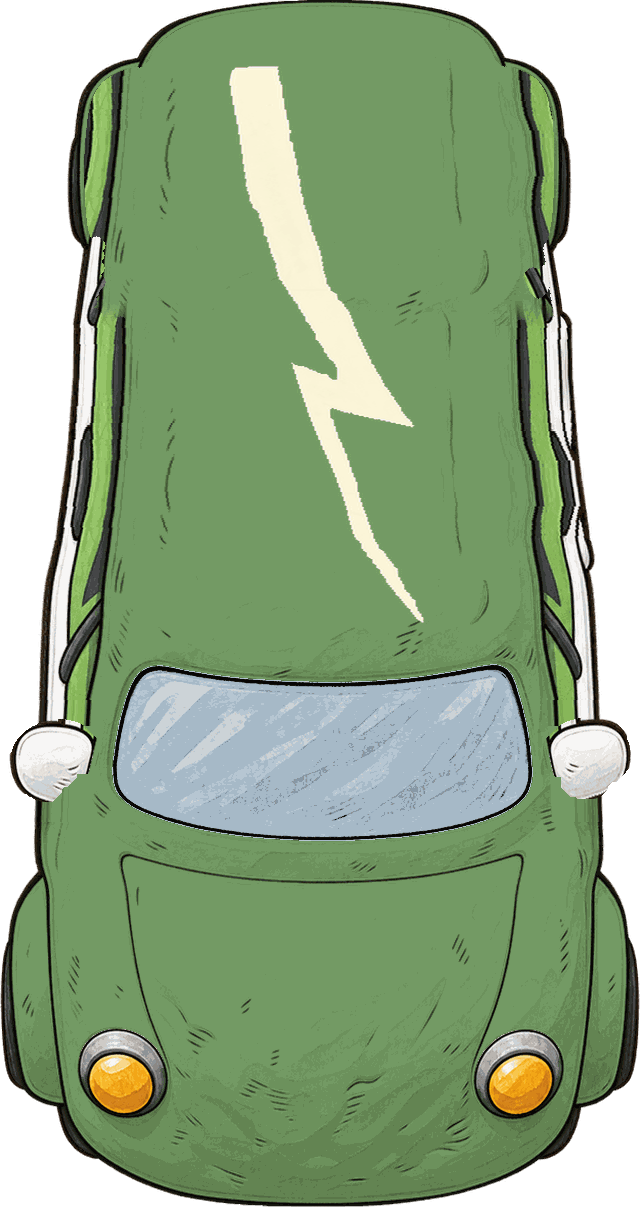
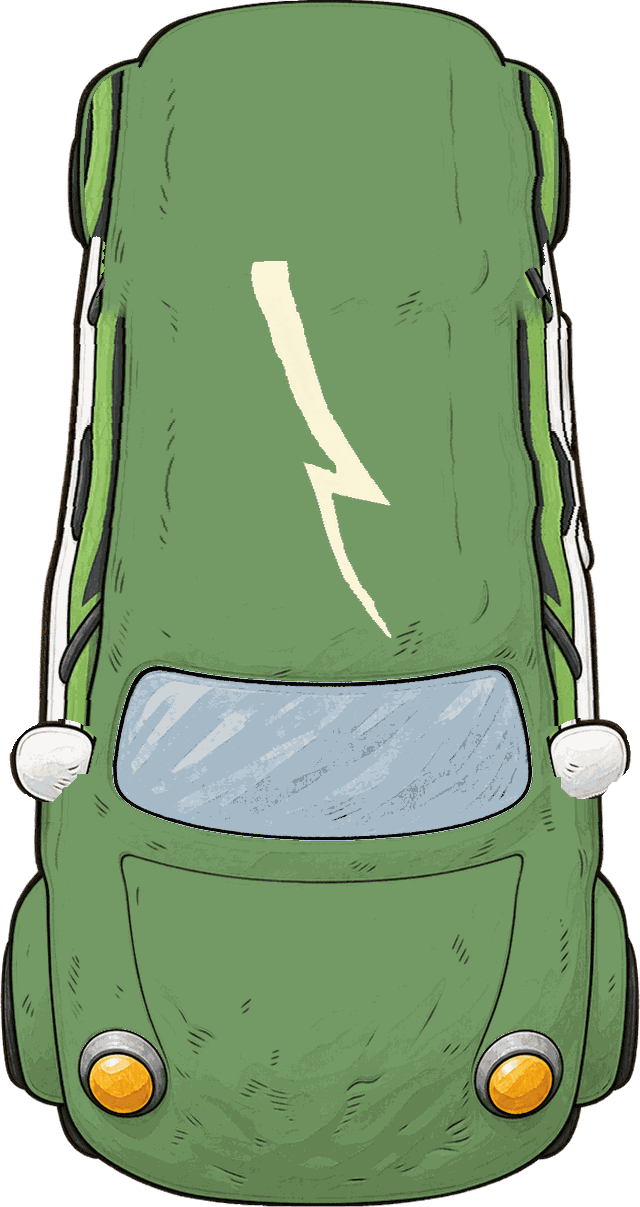
fix(art): spark's roof flash is one size on his front and rear, and decorate-roof.py keeps it so
The roof motifs went in with Spark's rear flash 0.68 the size of his front's,
because decorate-roof.py sizes a motif as a share of the roof it finds and the
two views show different lengths of one roof: his front has the rear window
painted out so its roof runs on to the tail (652 rows), his rear's stops at the
glass (442). Marcus's principle for the fleet is that autistic children spot a
mark that does not match between viewpoints, and a flash that is 14 px thick at
46 px wide on the front and 10 px on the rear is that mark.

The front has come down to the rear, the camera reference, whose bolt cannot be
enlarged without running it into the glass its roof stops at. In the tool rather
than in the file, so a re-run gives this and not the fault:

  - a design that is one motif (SIZED_ONCE: spark A and B, bea A) is now sized on
    both roofs, each view takes the smaller scale in each direction and the
    smaller motif's gap to the nose end of its roof. The answer is the same from
    either file in either order and nothing is ever enlarged, so the rear did
    not move and the front is capped at it. Designs that repeat (henry A and B,
    bea B) keep their views in step by count and direction and are untouched.
  - the other view is the sibling beside the source, or --pair; --alone is the
    old behaviour, and a one-motif design with no other view stops and says so
    rather than quietly reintroducing the fault.
[…]

Changed region(s): [[0.3438, 0.0307, 0.6562, 0.5211]]

diff --git a/apps/game/src/scenes/PtvDriveScene.ts b/apps/game/src/scenes/PtvDriveScene.ts
@@ -98,8 +98,9 @@ const TRAFFIC_SPRITE_KEYS: Record<TrafficKind, string[]> = {
  *  width lever, which drew a lorry half again too fat because the art of the
  *  day was too short and the scalar was being asked to fix it. The art fixed
  *  it instead. She is 1.31 — a 2.4m lorry against Henry's 1.8m van — and the
- *  sprite's own 2.81:1 aspect makes her about 1.8 times his length (2.03:1
- *  since he was shortened) without being asked.
+ *  sprite's own aspect, 2.505:1 front and 2.516:1 rear since her front was
+ *  redrawn (it was 2.81:1), makes her about 1.6 times his length (his is
+ *  2.03:1 since he was shortened) without being asked.
  *
  *  Measured off the installed files, as each sprite's opaque width over
  *  Henry's 561px: Trikey 0.43 (a trike is narrower than her file, which

diff --git a/tools/decorate-roof.py b/tools/decorate-roof.py
@@ -1,8 +1,8 @@
 #!/usr/bin/env python3
 """decorate-roof.py: put the master portrait's own side markings on a top-down vehicle's roof.
 
-    python3 tools/decorate-roof.py apps/game/public/assets/driving/topdown/vehicle-topdown-spark-rear.png \\
-        --design A --out /tmp/spark-rear-A.png --check
+    python3 tools/decorate-roof.py $SRC/vehicle-topdown-spark-rear.png \\
+        --design A --out /tmp/spark-rear-A.png --check        # $SRC: the sprites BEFORE any motif, see RECIPE
     python3 tools/decorate-roof.py --cutouts /tmp/cutouts      # write the extracted motifs as PNGs, nothing else
 
 WHY. The six van top-downs were recoloured to match their portraits and then read as one flat slab of
@@ -57,11 +57,28 @@ survives that has to be written against the roof it finds, so:
      are applied to the motif at half strength so it sits in the same light.
   5. Pixels that are not clean roof paint are never touched; the render counts any motif pixel that
      fell there ("clipped") and every design measures 0.
+  6. A design that is ONE motif (SIZED_ONCE: spark A and B, bea A) is matched with the other view of
+     the same vehicle, because step 2 makes its size a share of the roof in front of it and the two
+     views show different lengths of one roof. Spark's front has its rear window painted out, so its
+     roof runs on to the tail (652 rows); his rear's stops at the glass (442). The same recipe drew
+     the rear flash 0.68 the size of the front's, 10 px thick against 14 at 46 px wide, and a child
+     sees a bolt change size between views. So the motif is sized on BOTH roofs, takes the smaller of
+     the two in each direction and the smaller motif's gap to the nose end of its roof (the
+     windscreen), and each view is drawn at that: the flash is a 380 x 136 px box on both, its tip
+     31 px from the nose end of the roof on both.
+     The smaller wins because a motif that fits the tighter roof fits the other, and the reverse is how
+     a flash gets pushed into the glass. The answer is the same from either file in either order,
+     nothing is ever enlarged, and Spark's rear, the camera reference (fleet-canon.md section 3),
+     does not move at all; his front comes down to it. A design that repeats (henry A and B, bea B)
+     keeps its views in step by its repeat count and its direction and is not matched: matching would
+     only take repeats off the longer roof. The other view is the sibling beside this file (front
+     <-> -rear) or --pair; --alone sizes by this roof alone and the views will disagree.
 
 DESIGNS (one letter each, parameters named at the top of each block below; * = recommended).
 
   spark A* one flash down the roof, tip at the nose. 86% of L long, up to 62% of W thick; on a short
-           roof it gives up at most 35% of its length before it gets thinner instead.
+           roof it gives up at most 35% of its length before it gets thinner instead. Sized once for
+           both views (step 6): 380 x 136 px, the rear's.
         B  one flash at its painted shape, turned 40 degrees off the roof's line, as big as fits.
   bea   A  the whole scroll once down the centre line, 40% of W across, at most 90% of L long.
         B* the same scroll twice, the second its mirror image across the centre line, 29% of W each,
@@ -69,10 +86,17 @@ DESIGNS (one letter each, parameters named at the top of each block below; * = r
            toward the centre, a clear strip (3% of W) between.
   henry A* a garland down the centre line: pink flower, leaves, sage flower, leaves, pink ..., a
            flower every 0.62 W (46% of W across for pink, 35% for sage), pink nearest the nose.
-        B  the oak inlay, 40% of W across, as many as fit (one on both current roofs).
+        B  the oak inlay, 40% of W across, as many as fit (one on each current roof, 692 and 764 rows).
+
+THE ROOFS TODAY, as this tool measures them on the motif-free sprites (rows long, canvas px wide, length
+over width), front / rear:
+
+  henry  692 x 388 (1.78) / 764 x 418 (1.83)     bea    739 x 429 (1.72) / 900 x 457 (1.97)
+  spark  652 x 418 (1.56) / 442 x 488 (0.91)
 
 WHEN THE ROOF GETS SHORTER. Measured on the committed sprites before and after the shortening
-(roof length over width 2.22 -> 1.78 on Henry front, 2.87 -> 1.11 on Spark front), the same recipe, no change:
+(shorten-topdown.py, f4cc906; roof length over width 2.22 -> 1.78 on Henry front, 2.87 -> 1.11 on Spark
+front; Spark's front has since been redrawn, and is the 1.56 above), the same recipe, no change:
   henry A  flowers 4 -> 3 (their spacing gives a little, so front and rear always agree); B  2 inlays -> 1
   bea   A, B  one scroll either way; it shrinks to stay at most 90% of L, giving up at most 15% of its
               shape first; share of roof 7.7% -> 6.3% (A), 13.6% -> 12.5% (B)
@@ -102,17 +126,29 @@ vehicles.gate IoU against the input; alpha differences; and, on Henry's rear, th
 a poor detector of a heavy motif (Henry B moves them by 0.2 although oak covers 19% of the roof),
 so the share of the roof is printed beside them. Look at it as well.
 
-RECIPE, one line per file (A or B as chosen; the files are not installed by this script):
+RECIPE, one line per file (A or B as chosen; the files are not installed by this script). The sources are
+the sprites BEFORE any motif, in one folder $SRC: the installed files carry a motif now, and to this tool
+a motif is not clean paint, so it measures a different roof (Spark's front comes out 196 rows, on the
+bonnet) and puts a small second motif there. The tool refuses a roof under MIN_ROOF of the painted
+height for that reason. They are the files at 011f02a^, until a redraw makes newer motif-free ones:
+
+  git show 011f02a^:apps/game/public/assets/driving/topdown/vehicle-topdown-$f.png > $SRC/vehicle-topdown-$f.png
 
   for f in henry henry-rear bea bea-rear spark spark-rear; do
-    python3 tools/decorate-roof.py apps/game/public/assets/driving/topdown/vehicle-topdown-$f.png \\
-        --design $D --out /tmp/$f.png --check
+    python3 tools/decorate-roof.py $SRC/vehicle-topdown-$f.png --design $D --out /tmp/$f.png --check
   done                                  # $D: henry A, bea B, spark A (recommended)
+
+A one-motif design finds its other view beside the file it is given, so $SRC must hold both. The output
+is then copied over the installed files (not through install-vehicles.py), and re-running it gives the
+same bytes.
 
 KNOWN LIMITS. The flash's torn edge and Bea's stepped strokes show a little at 1:1 and nowhere at the
 46 to 92 px the game draws these at. Bea's scrollwork is fine work and the faintest of the three at
-46 px. Spark's roof, after shortening, is as wide as it is long, so a flash of its painted shape is
-smaller than it was on the long roof; A lets it fatten along its width by up to 1.5x before shrinking.
+46 px. Spark's rear roof is wider than it is long (442 rows by 488), so a flash of its painted shape is
+smaller there than on his front's; A lets it stretch along the roof by up to 1.3x or squash by up to 35%
+before it shrinks, and both of his roofs are at the squash. Matching the views (step 6) gives the front
+the rear's flash, so on his long front roof it is smaller than the roof would carry and leaves bare paint
+behind it; that is the price of one bolt that does not change size.
 """
 import argparse
 import importlib.util
@@ -686,6 +722,73 @@ def motifs_for(vehicle):
     return {'items': extract_henry_flowers(), 'inlay': extract_henry_inlay()}
 
 
+# ------------------------------------------------------------------ one motif, two views
+#
+# A design that repeats keeps a vehicle's two views in step by its repeat count and its direction, and
+# only the repeats differ. A design that is ONE motif has nothing but its size to keep in step, and its
+# size is a share of the roof in front of it, which is not the same stretch of roof in both views:
+# Spark's front has the rear window painted out (fleet-canon.md section 3) and its roof runs on to
+# the tail, 652 rows, where his rear's stops at the glass, 442. So such a design is sized on both roofs
+# and each view takes the smaller size and the smaller motif's distance from the nose end of its roof (the
+# windscreen), so the one motif is the same size and the same distance from the glass in both views. A motif
+# that fits the tighter roof fits the other, so the longer roof is the one that gives way and nothing is
+# enlarged.
+
+SIZED_ONCE = {('spark', 'A'), ('spark', 'B'), ('bea', 'A')}
+MIN_ROOF = 0.28         # a roof shorter than this share of the sprite's painted height is not a roof (a motif is on it already)
+
+
+def _along(p):
+    """How far a placed motif reaches along the roof, in canvas px: its box, turned by its `turn`."""
+    mh, mw = p['motif'].shape[:2]
+    t = np.radians(p['turn'])
+    return mw * p['sa'] * abs(np.cos(t)) + mh * p['sc'] * abs(np.sin(t))
+
+
+def _nose_gap(p, roof):
+    """Canvas px between the nose-ward end of a placed motif and the nose-ward end of the roof, which is where
+    the windscreen starts."""
+    return roof.length - (p['v0'] + _along(p) / 2.0)
+
+
+def match_views(mine, my_roof, theirs, their_roof):
+    """`mine` (this view's placements of a one-motif design, on `my_roof`) matched to `theirs` (the other view's,
+    on `their_roof`): in each direction the smaller scale of the two, and the nose gap of whichever view has the
+    smaller motif. The same answer from either view, so the order of the runs does not matter, and the view that
+    already has the smaller motif comes back as it was, to the bit."""
+    out = []
+    for p, q in zip(mine, theirs):
+        sa, sc = min(p['sa'], q['sa']), min(p['sc'], q['sc'])
+        mine_binds = p['sa'] * p['sc'] <= q['sa'] * q['sc']
+        if mine_binds and (sa, sc) == (p['sa'], p['sc']):
+            out.append(p)
+            continue
+        gap = _nose_gap(p, my_roof) if mine_binds else _nose_gap(q, their_roof)
+        r = dict(p, sa=sa, sc=sc)
+        r['v0'] = max(my_roof.length - gap - _along(r) / 2.0, _along(r) / 2.0)
+        out.append(r)
+    return out
+
+
+def sibling(path):
+    """The other view's file beside this one: vehicle-topdown-spark.png <-> vehicle-topdown-spark-rear.png."""
+    folder, name = os.path.split(path)
+    stem, ext = os.path.splitext(name)
+    return os.path.join(folder, (stem[:-5] if stem.endswith('-rear') else stem + '-rear') + ext)
+
+
+def painted_height(rgba):
+    rows = np.nonzero((rgba[..., 3] > 16).any(1))[0]
+    return int(rows.max() - rows.min() + 1)
+
+
+def check_is_a_roof(roof, rgba, path):
+    if roof.length < MIN_ROOF * painted_height(rgba):
+        sys.exit(f'{os.path.basename(path)}: the roof found is {roof.length} rows of a {painted_height(rgba)}-row sprite, '
+                 f'which is not a roof. Is a motif already on it? The installed files carry one: use the sprites '
+                 f'from before it (RECIPE in this file\'s docstring).')
+
+
 # ------------------------------------------------------------------ the gates
 
 TARGETS = {'henry': (142, 52, 54), 'bea': (74, 112, 164), 'spark': (116, 156, 102)}   # the portraits' body colours
@@ -814,6 +917,14 @@ def report(src_path, out_path, src_rgba, new_rgba_raw, roof, stats, vehicle, vie
               f'motif colour error {g["motif_err"]:.2f} of 255; {g["shifted"]} px outside the motif shifted by a merge, largest shift {g["shifted_max"]} of 255')
     print(f'motif covers {stats["covered"]} px = {stats["share_of_roof"]:.1%} of the clean roof; '
           f'{stats["clipped"]} motif px fell on something that was not clean paint and were not drawn')
+    if stats['pair']:
+        ppath, proof = stats['pair']
+        (al, ac, gap), (al0, ac0, gap0) = stats['placed'][0], stats['alone'][0]
+        print(f'sized once with {os.path.basename(ppath)} (its roof {proof.length} rows, this one {roof.length}): '
+              f'motif {al:.0f} x {ac:.0f} px, tip {gap:.0f} px from the nose end of the roof (the windscreen); '
+              f'this roof alone would give {al0:.0f} x {ac0:.0f}, {gap0:.0f} px from it')
+    elif (vehicle, design) in SIZED_ONCE:
+        print('sized by this roof alone (--alone): the two views will disagree')
     print(f'livery bands (0-6, 6-20, 35-55, 75-92% of painted height), dominant colour, distance from {tuple(TARGETS[vehicle])}:')
     for tag, img in (('  before', src_rgba), ('  after ', back)):
         d = [float(np.linalg.norm(b['dominant'] - tgt)) for b in rt.band_colours(img)]
@@ -860,14 +971,28 @@ def write_cutouts(folder):
         save(f'henry-{it["kind"]}-{i}.png', it['motif'])
 
 
-def decorate(src, vehicle, view, design, check=False, out=None):
+def decorate(src, vehicle, view, design, check=False, out=None, pair=None):
+    """The roof exclusion zones are always this file's own (Roof(rgba) of `src`); `pair`, the other view's
+    motif-free sprite, is measured only for the size and the nose gap a one-motif design shares (SIZED_ONCE)."""
     rgba = rt.load_rgba(src)
     roof = Roof(rgba)
+    check_is_a_roof(roof, rgba, src)
     M = motifs_for(vehicle)
     placements = DESIGNS[(vehicle, design)](roof, M)
+    alone = placements
+    other = None
+    if pair is not None:
+        prgba = rt.load_rgba(pair)
+        other = Roof(prgba)
+        check_is_a_roof(other, prgba, pair)
+        placements = match_views(placements, roof, DESIGNS[(vehicle, design)](other, M), other)
     rgb, alpha = render(roof, view, placements)
     new, stats = composite(rgba, roof, rgb, alpha)
     stats['mask'] = (alpha * roof.ok) > 0.02
+    stats['pair'] = None if other is None else (pair, other)
+    if pair is not None:
+        size = lambda ps: [(p['motif'].shape[1] * p['sa'], p['motif'].shape[0] * p['sc'], _nose_gap(p, roof)) for p in ps]
+        stats['placed'], stats['alone'] = size(placements), size(alone)
     return rgba, roof, new, stats
 
 
@@ -881,6 +1006,10 @@ def main():
     ap.add_argument('--view', choices=['front', 'rear'], help='default: from the file name')
     ap.add_argument('--check', action='store_true', help='print the gates')
     ap.add_argument('--raw', help='also write the unquantised RGBA here')
+    ap.add_argument('--pair', metavar='SRC', help="the vehicle's other view, as it was before any motif. A one-motif design (spark A "
+                    "and B, bea A) is sized on both roofs and drawn at the smaller, so the motif is the same size in both views; "
+                    "default: the sibling file beside the source (front <-> -rear)")
+    ap.add_argument('--alone', action='store_true', help='size a one-motif design by this roof alone, as before; the two views will disagree')
     args = ap.parse_args()
     if args.cutouts:
         write_cutouts(args.cutouts)
@@ -895,7 +1024,18 @@ def main():
     src, out = os.path.abspath(args.src), os.path.abspath(args.out)
     if src == out:
         sys.exit('refusing to write over the source')
-    rgba, roof, new, stats = decorate(src, veh, view, args.design)
+    pair = None
+    if (veh, args.design) in SIZED_ONCE and not args.alone:
+        pair = os.path.abspath(args.pair) if args.pair else sibling(src)
+        if not os.path.exists(pair):
+            sys.exit(f'{veh} {args.design} is one motif and is sized once for both views, so it needs the other view: '
+                     f'{os.path.basename(pair)} was not found beside the source. Give it with --pair (the sprite from before '
+                     f'any motif), or --alone to size this roof by itself, which leaves the two views disagreeing.')
+        if pair == src:
+            sys.exit('--pair is the source itself; it must be the vehicle\'s other view')
+    elif args.pair:
+        print(f'note: {veh} {args.design} repeats and is not sized across views, so --pair is not used')
+    rgba, roof, new, stats = decorate(src, veh, view, args.design, pair=pair)
     if args.raw:
         Image.fromarray(new, 'RGBA').save(args.raw)
     src_img = Image.open(src)

diff --git a/docs/fleet-canon.md b/docs/fleet-canon.md
@@ -147,7 +147,7 @@ was, and Spark's rear window is untouched.
   |---|---|---|---|
   | Henry | **A, garland** | pink flower, leaves, sage flower, leaves, pink flower down the centre line, pink nearest the nose | roof 692 / 764 rows; 3 flowers and 2 leaf sprigs at both ends |
   | Bea | **B, scrollwork twice** | the cargo-panel scroll, then its mirror image, roses outward and flourishes toward the centre, symmetrical about the roof's centre line | roof 739 / 900 rows; one pair at both ends (665 x 123 px each scroll / 810 x 132) |
-  | Spark | **A, one flash** | the flank's cream flash down the roof, tip at the nose | roof 652 / 442 rows; one flash at both ends (561 x 201 px / 380 x 136) |
+  | Spark | **A, one flash** | the flank's cream flash down the roof, tip at the nose | roof 652 / 442 rows; one flash at both ends, the same size on both: a 380 x 136 px box, 377 px along and 142 / 137 across |
   | Big Tilly | none | her bed is open and busy from above | |
   | Trikey | none | she has no roof | |
 
@@ -162,14 +162,38 @@ was, and Spark's rear window is untouched.
 
   Front and rear carry one treatment: the rear sprite is the front's roof turned
   half way round, so the bolt's tip and Henry's nearest pink flower are at the
-  nose in both, and Bea's pair is symmetrical in both. The repeat counts agree
-  (above). Only size differs, because every size is a share of the roof's own
-  length and the two views show different lengths of it. Spark's front has its
-  rear window painted out (section 3), so its roof runs on to the tail, 652 rows;
-  his rear's roof stops at the glass, 442 rows. His rear flash is therefore 0.68
-  of the front's in length and thickness, and limited by length because that roof
-  is wider (0.91) than it is long. If the bolt is ever to match across views, cap
-  the front's at the rear's size rather than stretching the rear's.
+  nose in both, and Bea's pair is symmetrical in both. Henry's garland and Bea's
+  scrollwork keep the two views in step by their repeat count and their direction
+  (the same count at each end), and their size follows their roof: Henry's
+  flowers are 1.08x larger on the rear and Bea's scrolls 1.22x longer. That is
+  correct and is not to be matched.
+
+  **Spark's flash is one size in both views (fixed 2026-10-11).** A single flash
+  has no repeat count to keep the views in step, so its size is all there is to
+  disagree, and it did: every size is a share of the roof's own length, and
+  Spark's front has its rear window painted out (section 3) so its roof runs on to
+  the tail, 652 rows, where his rear's stops at the glass, 442. The rear's flash
+  was 0.68 of the front's in length and thickness (at 46 px wide, a flash 14 px
+  thick against one 10 px thick). The front has come down to the rear,
+  which is the camera reference (section 3) and whose bolt cannot be enlarged
+  without pushing it into the glass its roof stops at. `decorate-roof.py` now
+  sizes a one-motif design (`SIZED_ONCE`: Spark A and B, Bea A) on both roofs,
+  takes the smaller in each direction, and sets the bolt the same distance from the
+  nose end of its roof, so the rule holds for whichever file is run first and
+  the rear file did not change at all. Measured from the pixels:
+
+  | | Before | After |
+  |---|---|---|
+  | Front | 195 x 557 px (561 x 201 box) | 142 x 377 px (380 x 136 box) |
+  | Rear | 137 x 377 px (380 x 136 box) | unchanged, byte-identical |
+  | Front / rear along the roof | 1.48 | 1.00 |
+  | Front / rear across | 1.42 | 1.04 (the roof's own taper) |
+  | At 46 px wide, across x along | front 14.0 x 40.0, rear 9.8 x 27.1 | front 10.2 x 27.1, rear 9.8 x 27.1 |
+
+  The tip is 31 px from the nose end of the roof in both views. The flash is now
+  smaller than his long front roof would carry, and bare paint runs on behind
+  it: that is what one bolt that does not change size costs. On the front, a
+  flash larger than the rear's 380 x 136 px box is the fault again.
 
   The six files are 256-colour palette PNGs: the tool merges near-duplicate roof
   shades to make room for the motif's colours, so alpha is byte-identical, the
@@ -179,9 +203,12 @@ was, and Spark's rear window is untouched.
   pixel appears on any roof. **Re-run the tool, never install these through
   `install-vehicles.py`**: its 0.88 taper would skew them a second time. If a
   roof is redrawn again the motifs must be re-placed, and the tool does it from
-  the file it is given:
-  `python3 tools/decorate-roof.py <installed file> --design <A|B> --out <path> --check`
-  with henry A, bea B, spark A.
+  the file it is given, which must be the sprite before any motif (the installed
+  files carry one now, and the tool refuses them: its recipe says where the
+  motif-free ones are, `git show 011f02a^:<path>`):
+  `python3 tools/decorate-roof.py <motif-free file> --design <A|B> --out <path> --check`
+  with henry A, bea B, spark A. Spark's two files are run from one folder, because
+  each reads the other for the size they share (`--pair`).
 
 ## 6. Open
 
